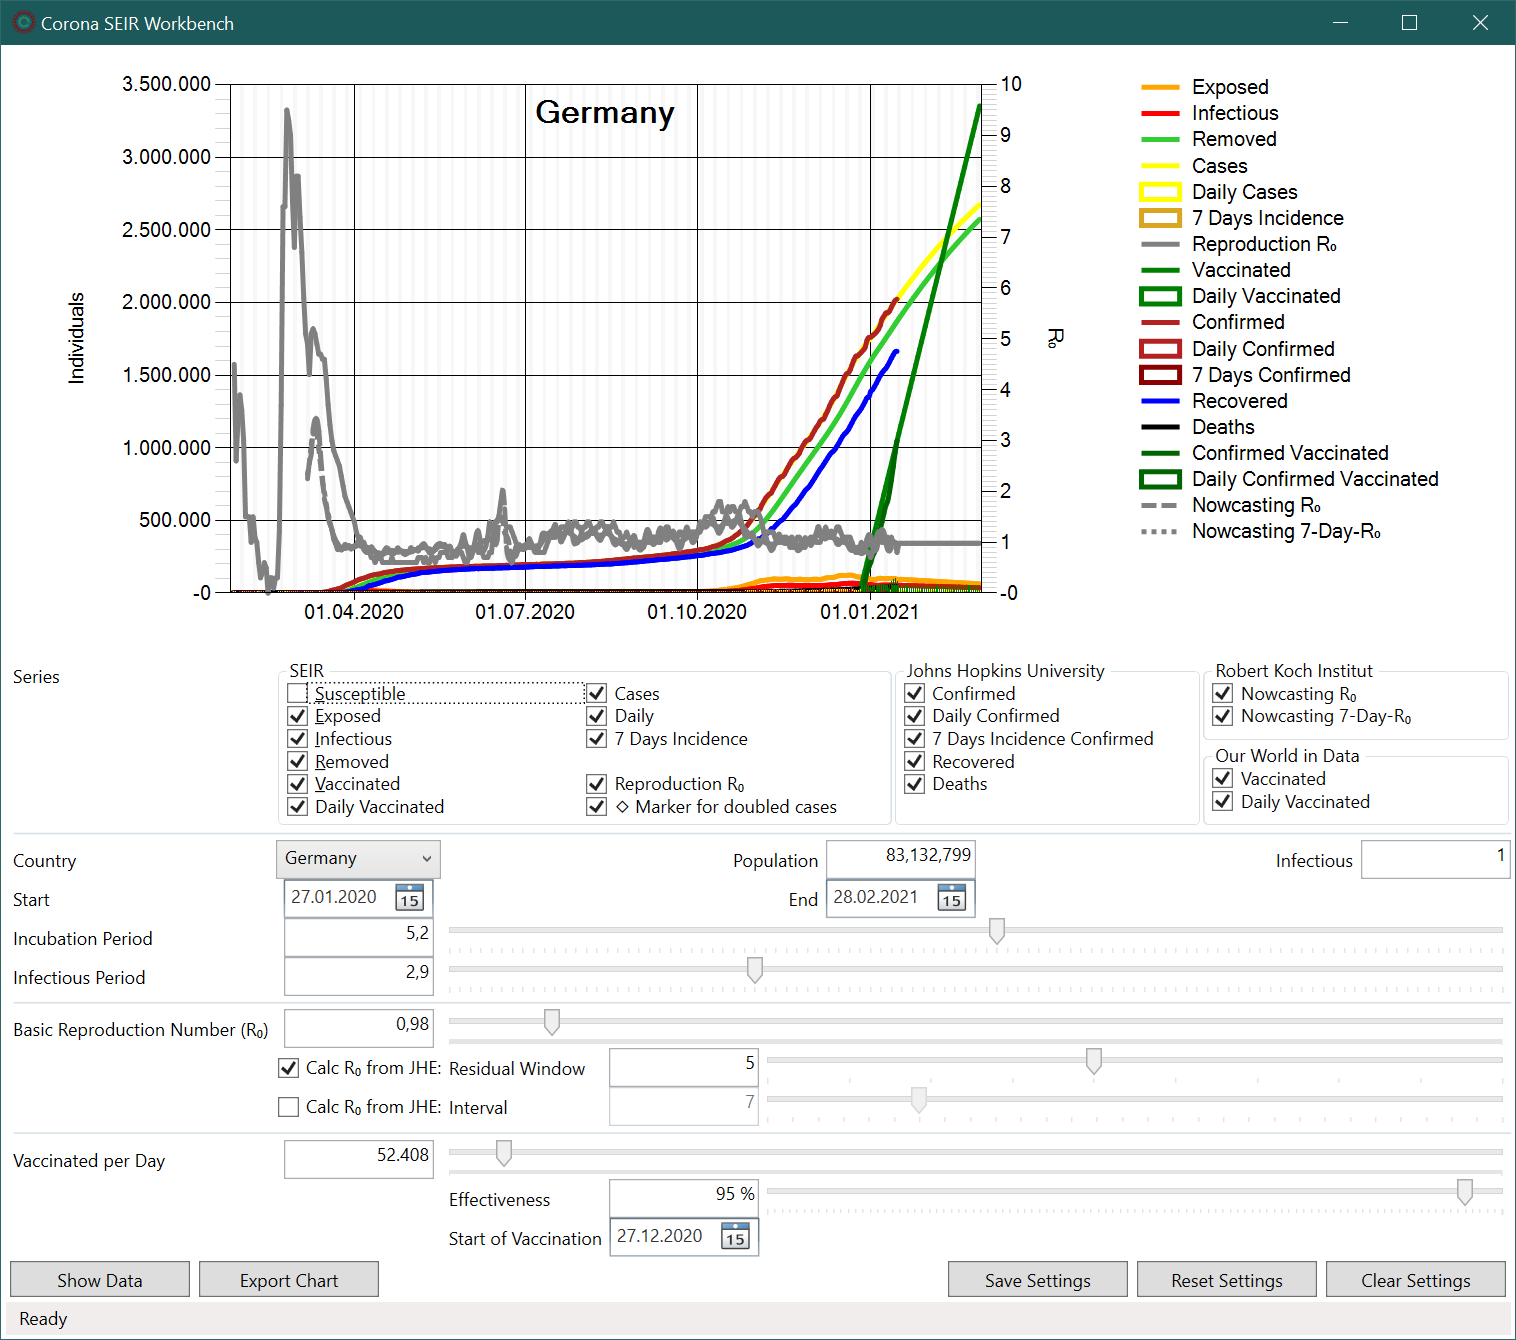
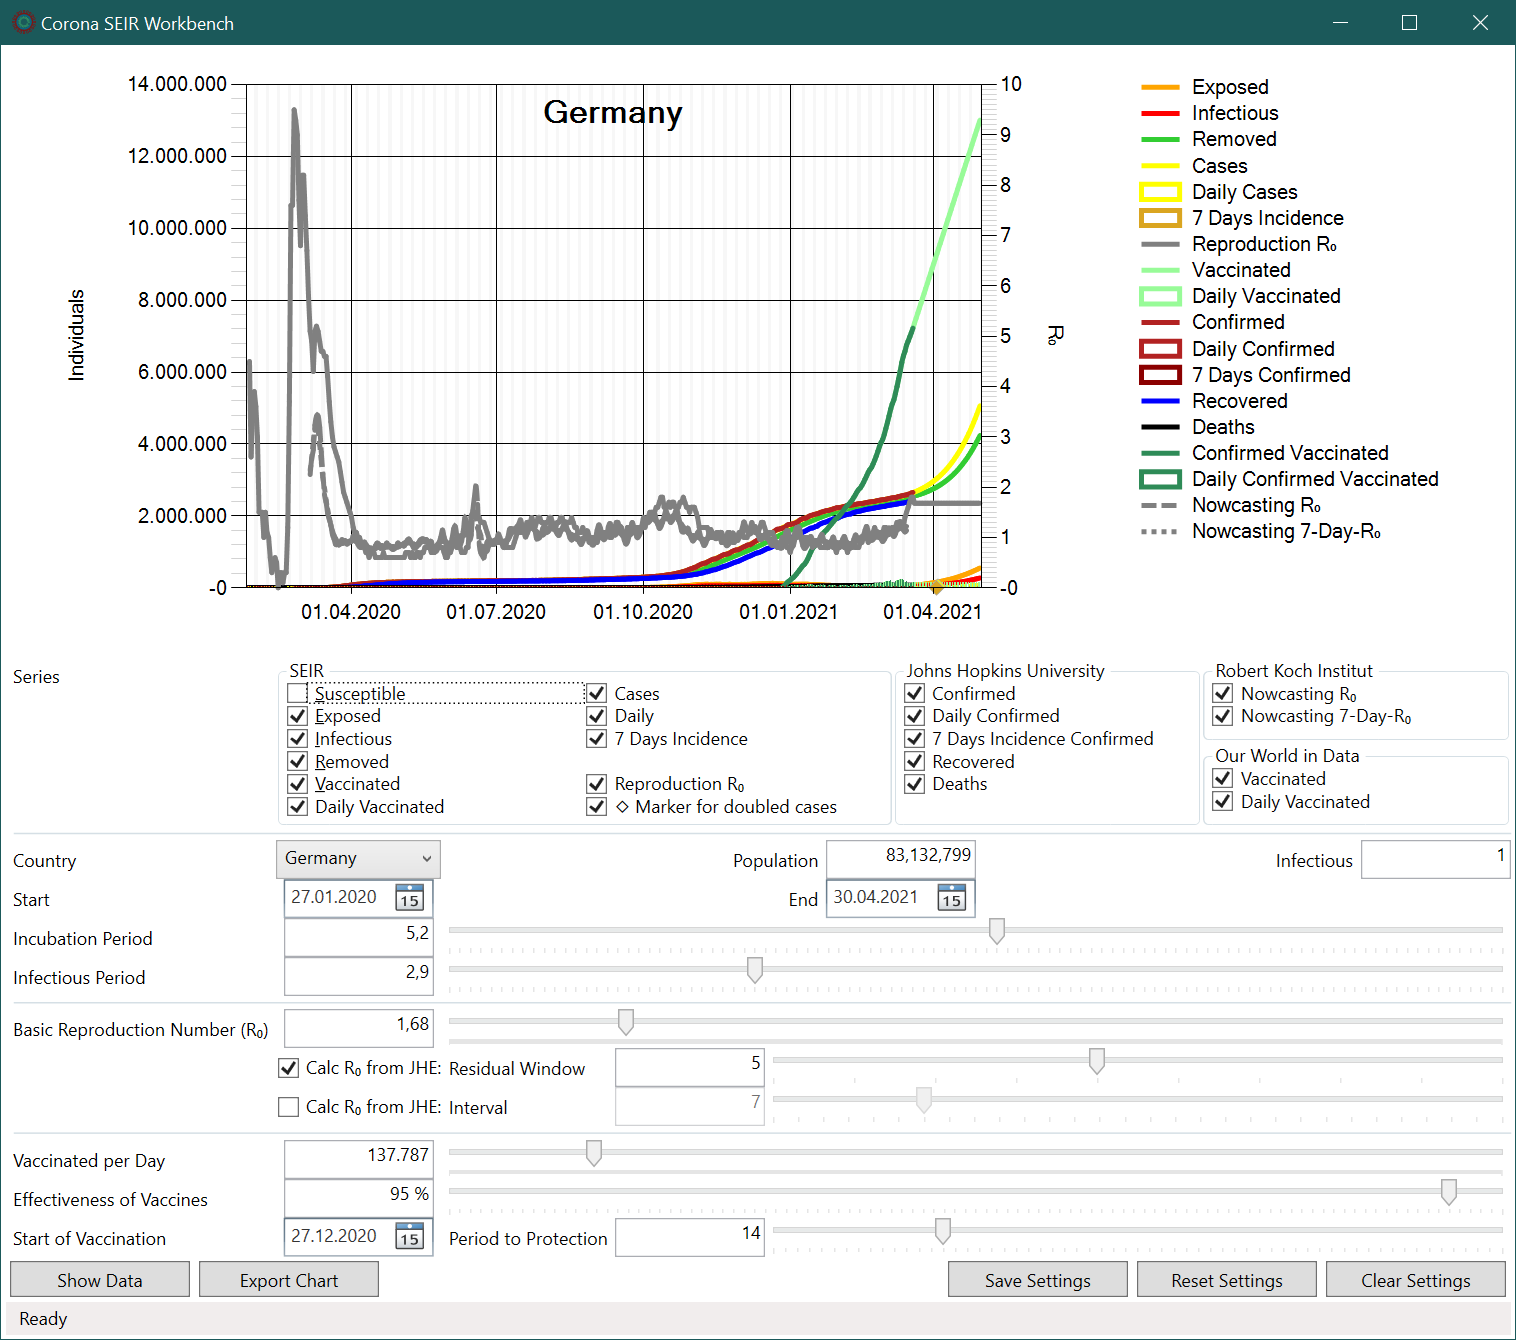
ClickOnce, reset & clear commands without changing country, documentation update for version 2.1

diff --git a/WorkbenchViewModel.cs b/WorkbenchViewModel.cs
@@ -515,8 +515,9 @@ namespace LogicLink.Corona {
         /// </summary>
         /// <param name="bShow">If false, show parameters are skipped</param>
         /// <param name="bLoadStartEnd">If false, start and end are not loaded</param>
-        public void Load(bool bShow = true, bool bLoadStartEnd = true) {
-            this.Country = Settings.Default.Country;
+        public void Load(bool bShow = true, bool bLoadCountry = true, bool bLoadStartEnd = true) {
+            if(bLoadCountry)
+                this.Country = Settings.Default.Country;
             this.Population = Settings.Default.Population;
             this.Infectious = Settings.Default.Infectious;
             this.IncubationPeriod = Settings.Default.IncubationPeriod;
@@ -604,23 +605,23 @@ namespace LogicLink.Corona {
         /// </summary>
         public void Reset() {
             Settings.Default.Reset();
-            Load();
+            Load(bLoadCountry:false);
         }
 
         /// <summary>
         /// Resets all changes to view model
         /// </summary>
-        public void ResetVaccinated() {
-            this.VaccinationStart = DateTime.Parse((string)Settings.Default.Properties[nameof(Settings.Default.VaccinationStart)].DefaultValue);
-            this.DailyVaccinated = int.Parse((string)Settings.Default.Properties[nameof(Settings.Default.DailyVaccinated)].DefaultValue);
-        }
+        //public void ResetVaccinated() {
+        //    this.VaccinationStart = DateTime.Parse((string)Settings.Default.Properties[nameof(Settings.Default.VaccinationStart)].DefaultValue);
+        //    this.DailyVaccinated = int.Parse((string)Settings.Default.Properties[nameof(Settings.Default.DailyVaccinated)].DefaultValue);
+        //}
 
         /// <summary>
         /// Clears the view model and shows no series
         /// </summary>
         public void Clear() {
             Settings.Default.Reset();
-            Load(false, false);
+            Load(bShow: false, bLoadCountry: false, bLoadStartEnd: false);
         }
 
         #endregion

diff --git a/Workbench.xaml.cs b/Workbench.xaml.cs
@@ -6,6 +6,7 @@ using System.Drawing;
 using System.Drawing.Drawing2D;
 using System.IO;
 using System.Linq;
+using System.Reflection;
 using System.Threading.Tasks;
 using System.Windows;
 using System.Windows.Forms.DataVisualization.Charting;
@@ -352,6 +353,7 @@ namespace LogicLink.Corona {
 
         public Workbench() {
             InitializeComponent();
+            this.Title = $"{this.Title} {Assembly.GetExecutingAssembly().GetName().Version}";
 
             _pgr.Changed += _pgr_Changed;
             _tmr.Elapsed += _tmr_Elapsed;

diff --git a/README.de.md b/README.de.md
@@ -47,7 +47,7 @@ Mit diesem Modell können anfällige Personen nach einer Impfung zu einem von de
 ## Die Mathematik hinter dem SEIR Modell
 Während der Modellierung des SEIR-Modells wird die Veränderung aller Kompartimente je Zeiteinheit berechnet. Zusätzlich wird im SEIRV-Modell vor der Berechnung der Veränderung der SEIR-Kompartimente die Veränderung zwischen dem Teil-Kompartiment *V* und dem Kompartiment *S* bestimmt.
 
-Im ersten Schritt werden daher innerhalb des Kompartiments *S* alle geimpften Personen in das Teilkompartiment *V* verschoben. Es wird eine konstante Zahl an Impfungen pro Tag angenommen. Aus diesem Grund wird die Bevölkerungszahl *N* als Bezugsgröße verwendet und mit einem konstanten Faktor multipliziert:
+Im ersten Schritt werden daher innerhalb des Kompartiments *S* alle geimpften Personen in das Teilkompartiment *V* verschoben. Es wird eine konstante Zahl an geimpften Personen pro Tag angenommen. Aus diesem Grund wird die Bevölkerungszahl *N* als Bezugsgröße verwendet und mit einem konstanten Faktor multipliziert:
 
 <p align="center"><img src="images/SEIRV%20delta%20Vaccinated.svg" alt="SEIRV ΔVaccinated"></p>
 
@@ -93,7 +93,7 @@ Wir haben uns bei der Corona SEIR Workbench für einen klassenbasierten Ansatz m
 
 Für eine graphische Anzeige verwenden wir die [Microsoft Windows Forms Charting](https://docs.microsoft.com/de-de/dotnet/api/system.windows.forms.datavisualization.charting)<sup>[8](#8)</sup> Bibliothek, die mit Visual Studio kommt. Für die Benutzeroberfläche verwenden wir [XAML](https://de.wikipedia.org/wiki/Extensible_Application_Markup_Language) aus der [Windows Presentation Foundation](https://de.wikipedia.org/wiki/Windows_Presentation_Foundation) und kombinieren beides in einem .Net Core 3.1 Projekt.
 
-Um die Daten möglichst vieler Länder darzustellen, benutzen wir die Infektionszahlen des [CSSE](https://systems.jhu.edu/) der Johns-Hopkins-Universität, die von [Datopian](https://datahub.io/core/covid-19) täglich nach Ländern aggregiert werden. Für historische R₀-Werte verwenden wir die vom Robert Koch-Institut täglich veröffentlichten [Nowcasting-Werte](https://www.rki.de/DE/Content/InfAZ/N/Neuartiges_Coronavirus/Projekte_RKI/Nowcasting_Zahlen.xlsx). Bevölkerungszahlen ermitteln wir aus dem API der [World Bank](https://www.worldbank.org/). Tägliche Impfzahlen werden über [Our World in Data](https://ourworldindata.org/covid-vaccinations) der Oxford Martin School und University of Oxford ermittelt. Alle Daten werden nur einmal täglich aus dem Web geladen und dann temporär für weitere Modellierungen gespeichert.
+Um die Daten möglichst vieler Länder darzustellen, benutzen wir die Infektionszahlen des [CSSE](https://systems.jhu.edu/) der Johns-Hopkins-Universität, die von [Datopian](https://datahub.io/core/covid-19) täglich nach Ländern aggregiert werden. Für historische R₀-Werte verwenden wir die vom Robert Koch-Institut täglich veröffentlichten [Nowcasting-Werte](https://www.rki.de/DE/Content/InfAZ/N/Neuartiges_Coronavirus/Projekte_RKI/Nowcasting_Zahlen.xlsx). Bevölkerungszahlen ermitteln wir aus dem API der [World Bank](https://www.worldbank.org/). Tägliche Impfzahlen werden über [Our World in Data (OWID)](https://ourworldindata.org/covid-vaccinations) der Oxford Martin School und University of Oxford ermittelt. Alle Daten werden nur einmal täglich aus dem Web geladen und dann temporär für weitere Modellierungen gespeichert.
 
 Einen auf Python basierten Ansatz der SEIR Modellierung von Corona hat Pina Merkert<sup>[9](#9)</sup> hat im Heise c‘t Magazin vorgestellt. Der Python Code ist ebenfalls auf [GitHub](https://github.com/pinae/SEIR-fit) zu finden ist.
 
@@ -113,9 +113,13 @@ Neben einem konstanten R₀-Wert kann dieser auf der Basis der historischen Fall
 
 Zum Schluss wird er Mittelwert des R₀-Wertes aus den letzten 5 Tagen ermittelt und dann für alle zukünftigen Zeiteinheiten verwendet. Dieser zukünftige Mittelwert kann manuell angepasst werden, um Maßnahmen des Infektionsschutzes im Modell zu berücksichtigen.
 
-Unterhalb der Einstellungen für die Basisreproduktionszahl können Angaben zu Impfungen gemacht werden. Auf der Basis der tatsächlichen Impfungen wird der Tagesmittelwert und der Start der Impfkampagne berechnet. Sollten in dem Land noch keine Impfungen durchgeführt worden sein, oder keine Daten dazu existieren, so werden hier Standardwerte angezeigt. Die Anzahl der geimpften Personen pro Tag kann über einen Schieberegler geändert werden.
+Unterhalb der Einstellungen für die Basisreproduktionszahl können Angaben zu geimpften Personen gemacht werden. Aus den OWID-Daten über Impfungen wird der Start der Impfkampagne und die Anzahl der am jeweiligen Tag geimpften Personen ermittelt. Für die Zukunft wird der Mittelwert an geimpften Personen der letzten 7 Tage verwendet und jeden Tag hinzuaddiert. Die Anzahl der geimpften Personen pro Tag kann für die Zukunft über einen Schieberegler geändert werden. Sollten in dem Land noch keine Impfungen durchgeführt worden sein, oder keine Daten dazu existieren, so werden hier Standardwerte angezeigt.
 
 Zusätzlich wird die Impfwirksamkeit angegeben. Diese gibt an, wie hoch der Anteil geimpfter Personen ist, der nicht mehr infiziert werden kann. Auf der Basis der Zulassungsdaten von Biontech und Moderna wird hier standardmäßig 95% angezeigt. Dieser Wert kann ebenfalls über einen Schieberegler angepasst werden. Als letztes kann der Start der Impfkampagne manuell geändert werden.
+
+Neben dem Start der Impfungen kann angegeben werden, nach wieviel Tagen ein Impfschutz für geimpfte Personen mit der eingestellten Impfwirksamkeit besteht. Dies ist zwar immer noch eine sehr grobe Vereinfachung, sorgt aber für eine bessere zeitliche Einordnung der Impfungen bei ihrer Beeinflussung des R0-Wertes. Standardmäßig wird hier ein Wert von 14 Tagen verwendet, der die Untergrenze für einen Impfschutz darstellt. Der Wert kann manuell angepasst werden, um die Auswirkungen auf den Verlauf der Epidemie anzuzeigen.
+
+Wenn ein von den OWID-Daten abweichender Start der Impfungen eingestellt wird, greifen die historischen OWID-Daten nicht mehr und stattdessen wird die manuell vorgegebene Anzahl der geimpften Personen verwendet. Mit dieser Einstellung können Szenarien bei mehr oder weniger Impfungen durchgerechnet werden.
 
 Im unteren Teil des Hauptfensters werden alle Funktionen der Workbench als Schaltflächen angezeigt. „*Show Data*“ zeigt alle im Diagramm dargestellten Werte als Tabelle an. Von hier können die Werte über die Zwischenablage in andere Programme, wie z.B. Mcirosoft Excel übernommen werden. Mittels „*Export Chart*“ kann das Diagramm als Graphik in verschiedenen Formaten oder auch als CSV-Datei exportiert werden. 
 

diff --git a/README.md b/README.md
@@ -47,7 +47,7 @@ With this approach, susceptible individuals can still be infected after a vaccin
 ## Maths of the SEIR model
 In the SEIR model, changes of all compartments are calculated per time unit. Additionally, in the SEIRV model, the change between sub-compartment *V* and compartment *S* is determined before calculating the change in the SEIR compartments.
 
-In this first step, all vaccinated persons within compartment *S* are moved to sub-compartment *V*. A constant number of vaccinations per day is assumed. For this reason, the population number *N* is used as a reference value and multiplied by a constant factor:
+In this first step, all vaccinated persons within compartment *S* are moved to sub-compartment *V*. A constant number of vaccinated individuals per day is assumed. For this reason, the population number *N* is used as a reference value and multiplied by a constant factor:
 
 <p align="center"><img src="images/SEIRV%20delta%20Vaccinated.svg" alt="SEIRV ΔVaccinated"></p>
 
@@ -93,7 +93,7 @@ We used a class-based approach with C# for the Corona SEIR Workbench, because in
 
 For a graphical data output, we use the [Microsoft Windows Forms Charting](https://docs.microsoft.com/en-us/dotnet/api/system.windows.forms.datavisualization.charting)<sup>[8](#f8)</sup> Library, which comes with Visual Studio. The user interface was programmed in [XAML](https://en.wikipedia.org/wiki/Extensible_Application_Markup_Language) with the [Windows Presentation Foundation](https://en.wikipedia.org/wiki/Windows_Presentation_Foundation). Both were combined in a .Net Core 3.1 project.
 
-In order to present data from as many countries as possible, we use the infection data from the [CSSE](https://systems.jhu.edu/) of the Johns-Hopkins-University. This data is aggregated by [Datopian](https://datahub.io/core/covid-19) on a daily basis by country. For historical R₀ values of Germany we use the daily [nowcasting values](https://www.rki.de/DE/Content/InfAZ/N/Neuartiges_Coronavirus/Projekte_RKI/Nowcasting_Zahlen.xlsx) published by the Robert Koch-Institute. We determine population data from the web API of the [World Bank](https://www.worldbank.org/). Daily vaccination data is retrieved from [Our World in Data](https://ourworldindata.org/covid-vaccinations) of the Oxford Martin School and University of Oxford. Data is downloaded from the web only once a day and then temporarily stored for further processing.
+In order to present data from as many countries as possible, we use the infection data from the [CSSE](https://systems.jhu.edu/) of the Johns-Hopkins-University. This data is aggregated by [Datopian](https://datahub.io/core/covid-19) on a daily basis by country. For historical R₀ values of Germany we use the daily [nowcasting values](https://www.rki.de/DE/Content/InfAZ/N/Neuartiges_Coronavirus/Projekte_RKI/Nowcasting_Zahlen.xlsx) published by the Robert Koch-Institute. We determine population data from the web API of the [World Bank](https://www.worldbank.org/). Daily vaccination data is retrieved from [Our World in Data (OWID)](https://ourworldindata.org/covid-vaccinations) of the Oxford Martin School and University of Oxford. Data is downloaded from the web only once a day and then temporarily stored for further processing.
 
 A Python-based approach to SEIR modelling for SARS-COV-2 has been published by Pina Merkert<sup>[9](#f9)</sup> in Heise c't magazine. The Python code can be found on [Github](https://github.com/pinae/SEIR-fit).
 
@@ -115,7 +115,13 @@ Finally, from the last 5 days with historical data the average of the R₀ value
 
 Below the settings for the basic reproduction number, settings for vaccinations can be adjusted. The daily average and the start of the vaccination campaign are calculated from of the actual vaccination data. If no vaccinations have been carried out yet in the country, or if no data exist on vaccination for the country, default values are used. The average number of vaccinated persons per day can be changed via a slider.
 
-Additionally, the vaccination effectiveness can be changed. The vaccination effectiveness represents the proportion of vaccinated persons who can no longer be infected. Based on the approval data of Biontech and Moderna, an effectiveness of 95% is used by default. This value can be changed by a slider also. Finally, the start of the vaccination campaign can be entered or changed manually.
+Below the settings for the basic reproduction number, settings for vaccinated persons can be adjusted. From the OWID data on vaccinations, the start of the vaccination campaign and the daily average number of persons vaccinated are determined. For the future, the average value of vaccinated persons of the last 7 days is calculated and then added to the number of vaccinated individuals each day. The average number of vaccinated persons per day can be changed for the future with a slider. If vaccinations have not been carried out in the country or if data about vaccination does not exist, default values are used.
+
+Additionally, the vaccination effectiveness can be changed. The vaccination effectiveness represents the proportion of vaccinated persons who can no longer be infected. Based on the approval data of Biontech and Moderna, an effectiveness of 95% is used by default. This value can be changed by a slider also.
+
+Besides the start of the vaccinations, you can set the time period after how many days the protection of a vaccination will be effective. Although this is still a gross simplification, it provides a better calculation when vaccinations will have an influence on the R0 value. By default, the period is set to 14 days, which is the lower limit for a vaccine protection period. The value can be manually adjusted to show the impact on the developement of the epidemic.
+
+If the start of vaccinations differs from the OWID data, the historical OWID data is no longer applyed and the manually specified average number of vaccinated persons is used instead. With this setting, scenarios can be simulated with more or fewer vaccinations.
 
 In the lower part of the main window functions can be executed by buttons. "*Show Data*" displays a table with all data points from the chart. You can transfer them from the table to other applications like Microsoft Excel via the clipboard. With "*Export Chart*" you can export the chart in various formats or as a CSV file.
 
